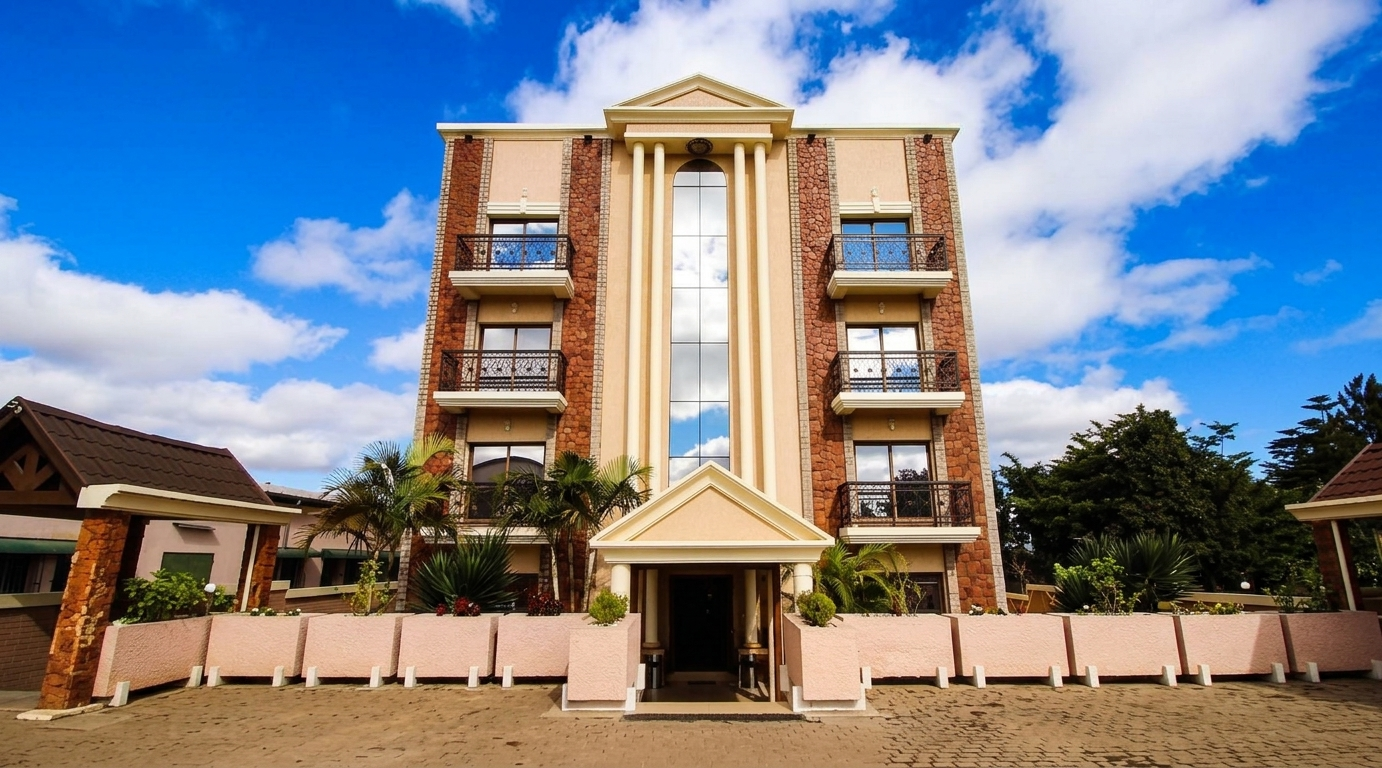
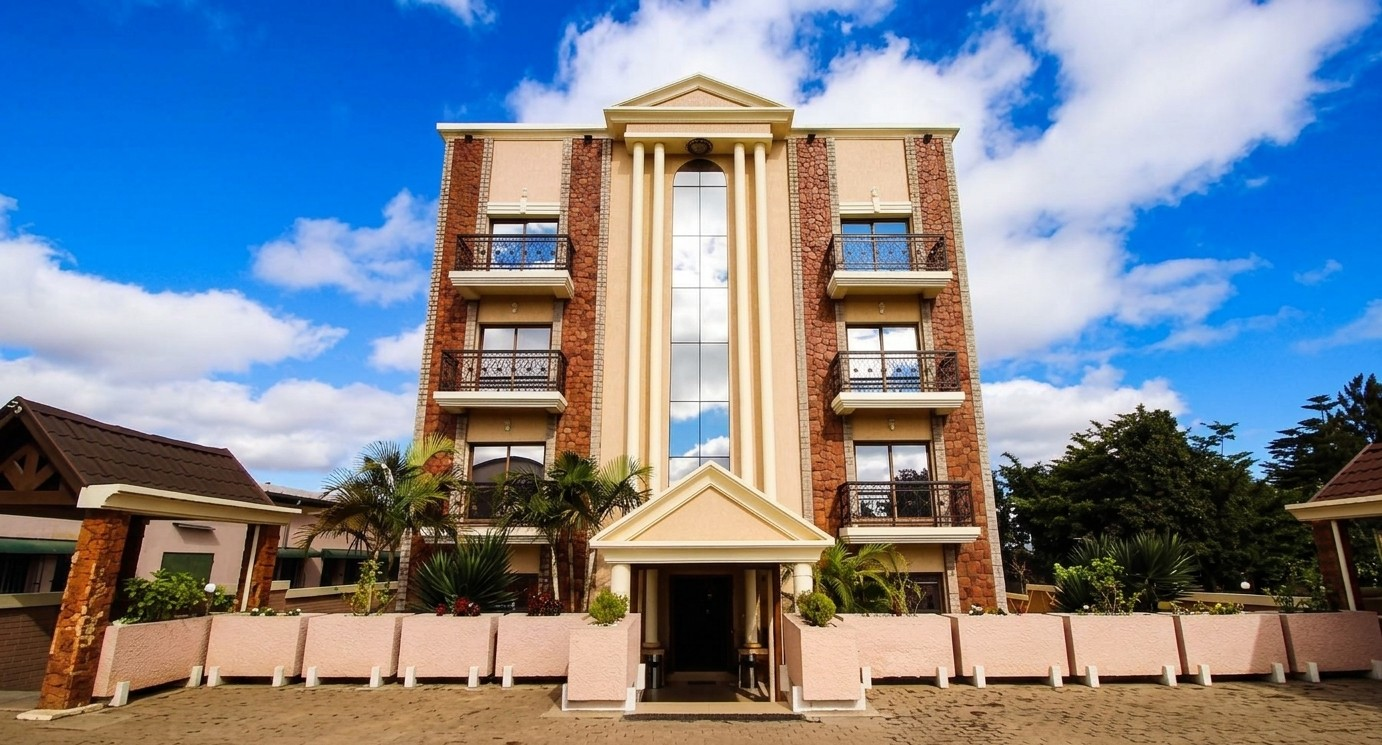
Amélioration du bloc BookinBar et le bouton CTA

diff --git a/src/components/BookingBar.tsx b/src/components/BookingBar.tsx
@@ -36,82 +36,104 @@ export default function BookingBar({ floating = true }: BookingBarProps) {
     state.adults > 1 ? 'common.adults' : 'common.adult'
   )}${state.children > 0 ? ` · ${state.children} ${t(state.children > 1 ? 'common.children' : 'common.child')}` : ''}`
 
+  // Classe partagée pour masquer l'icône native du navigateur sur les inputs date,
+  // tout en gardant toute la zone cliquable (ouvre le picker au clic n'importe où).
+  const dateInputClass =
+    'relative text-sm font-medium text-charcoal w-full focus:outline-none bg-transparent ' +
+    '[&::-webkit-calendar-picker-indicator]:absolute [&::-webkit-calendar-picker-indicator]:inset-0 ' +
+    '[&::-webkit-calendar-picker-indicator]:w-full [&::-webkit-calendar-picker-indicator]:h-full ' +
+    '[&::-webkit-calendar-picker-indicator]:opacity-0 [&::-webkit-calendar-picker-indicator]:cursor-pointer'
+
   return (
-    <div
-      className={classNames(
-        'bg-white flex flex-col md:flex-row items-stretch w-full',
-        floating ? 'rounded-md shadow-soft-lg md:divide-x divide-gray-200' : 'rounded-md shadow-card md:divide-x divide-gray-200 border border-gray-100'
-      )}
-    >
-      {/* Check-in */}
-      <label className="flex-1 flex items-center gap-3 px-6 py-4 cursor-pointer">
-        <Calendar size={18} className="text-gold-500 shrink-0" />
-        <div className="flex-1 min-w-0">
-          <div className="text-[10px] uppercase tracking-widest2 text-gray-400 font-medium">{t('common.checkIn')}</div>
-          <input
-            type="date"
-            value={toInputDate(state.checkIn)}
-            min={toInputDate(new Date())}
-            onChange={(e) => setCheckIn(e.target.value)}
-            className="text-sm font-medium text-charcoal w-full focus:outline-none bg-transparent"
-          />
-        </div>
-      </label>
+    <div className="w-full flex justify-center">
+      <div
+        className={classNames(
+          // Bordures pointues (rounded-none) et largeur réduite
+          'bg-white flex flex-col md:flex-row items-stretch w-full max-w-5xl overflow-hidden rounded-none',
+          floating
+            ? 'shadow-[0_0_0_1px_rgba(0,0,0,0.03),0_25px_60px_-8px_rgba(0,0,0,0.45),0_-6px_25px_-10px_rgba(0,0,0,0.2)]'
+            : 'shadow-card'
+        )}
+      >
+        {/* Groupe Arrivée / Départ / Chambres & voyageurs, avec traits fins entre chaque bloc */}
+        <div className="flex-1 flex flex-col md:flex-row divide-y md:divide-y-0 md:divide-x divide-gray-200">
+          {/* Check-in */}
+          <label className="group flex-1 flex items-center gap-3 px-6 py-5 cursor-pointer transition-colors duration-200 hover:bg-cream/60 focus-within:bg-cream/70">
+            <Calendar size={18} className="text-gold-500 shrink-0 transition-transform duration-200 group-hover:scale-110" />
+            <div className="flex-1 min-w-0">
+              <div className="text-[10px] uppercase tracking-widest2 text-gray-400 font-medium mb-0.5">{t('common.checkIn')}</div>
+              <input
+                type="date"
+                value={toInputDate(state.checkIn)}
+                min={toInputDate(new Date())}
+                onChange={(e) => setCheckIn(e.target.value)}
+                className={dateInputClass}
+              />
+            </div>
+            <ChevronDown size={16} className="text-gray-400 shrink-0" />
+          </label>
 
-      {/* Check-out */}
-      <label className="flex-1 flex items-center gap-3 px-6 py-4 cursor-pointer">
-        <Calendar size={18} className="text-gold-500 shrink-0" />
-        <div className="flex-1 min-w-0">
-          <div className="text-[10px] uppercase tracking-widest2 text-gray-400 font-medium">{t('common.checkOut')}</div>
-          <input
-            type="date"
-            value={toInputDate(state.checkOut)}
-            min={toInputDate(state.checkIn || new Date())}
-            onChange={(e) => setCheckOut(e.target.value)}
-            className="text-sm font-medium text-charcoal w-full focus:outline-none bg-transparent"
-          />
-        </div>
-      </label>
+          {/* Check-out */}
+          <label className="group flex-1 flex items-center gap-3 px-6 py-5 cursor-pointer transition-colors duration-200 hover:bg-cream/60 focus-within:bg-cream/70">
+            <Calendar size={18} className="text-gold-500 shrink-0 transition-transform duration-200 group-hover:scale-110" />
+            <div className="flex-1 min-w-0">
+              <div className="text-[10px] uppercase tracking-widest2 text-gray-400 font-medium mb-0.5">{t('common.checkOut')}</div>
+              <input
+                type="date"
+                value={toInputDate(state.checkOut)}
+                min={toInputDate(state.checkIn || new Date())}
+                onChange={(e) => setCheckOut(e.target.value)}
+                className={dateInputClass}
+              />
+            </div>
+            <ChevronDown size={16} className="text-gray-400 shrink-0" />
+          </label>
 
-      {/* Rooms & guests */}
-      <div ref={guestsRef} className="flex-1 relative">
-        <button
-          type="button"
-          onClick={() => setGuestsOpen((v) => !v)}
-          className="w-full flex items-center gap-3 px-6 py-4 text-left"
-        >
-          <Users size={18} className="text-gold-500 shrink-0" />
-          <div className="flex-1 min-w-0">
-            <div className="text-[10px] uppercase tracking-widest2 text-gray-400 font-medium">{t('common.roomsGuests')}</div>
-            <div className="text-sm font-medium text-charcoal truncate">{guestsLabel}</div>
-          </div>
-          <ChevronDown size={16} className={classNames('text-gray-400 transition-transform', guestsOpen && 'rotate-180')} />
-        </button>
-
-        {guestsOpen && (
-          <div className="absolute top-full left-0 mt-2 bg-white shadow-soft-lg rounded-md p-5 w-72 z-50 border border-gray-100">
-            <Stepper label={t('common.rooms')} value={state.rooms} onChange={setRooms} min={1} />
-            <Stepper label={t('common.adults')} value={state.adults} onChange={setAdults} min={1} />
-            <Stepper label={t('common.children')} value={state.children} onChange={setChildren} min={0} />
+          {/* Rooms & guests */}
+          <div ref={guestsRef} className="flex-1 relative">
             <button
               type="button"
-              onClick={() => setGuestsOpen(false)}
-              className="mt-2 w-full text-center text-xs uppercase tracking-widest2 text-gold-600 font-medium py-2 hover:bg-cream rounded"
+              onClick={() => setGuestsOpen((v) => !v)}
+              className="group w-full flex items-center gap-3 px-6 py-5 text-left transition-colors duration-200 hover:bg-cream/60"
             >
-              {t('common.apply')}
+              <Users size={18} className="text-gold-500 shrink-0 transition-transform duration-200 group-hover:scale-110" />
+              <div className="flex-1 min-w-0">
+                <div className="text-[10px] uppercase tracking-widest2 text-gray-400 font-medium mb-0.5">{t('common.roomsGuests')}</div>
+                <div className="text-sm font-medium text-charcoal truncate">{guestsLabel}</div>
+              </div>
+              <ChevronDown size={16} className={classNames('text-gray-400 shrink-0 transition-transform duration-200', guestsOpen && 'rotate-180')} />
             </button>
-          </div>
-        )}
-      </div>
 
-      {/* CTA */}
-      <button
-        type="button"
-        onClick={submitSearch}
-        className="bg-gold-500 hover:bg-gold-600 text-white uppercase tracking-widest2 text-xs md:text-sm font-medium px-8 py-5 transition-colors whitespace-nowrap"
-      >
-        {t('common.checkAvailability')}
-      </button>
+            {guestsOpen && (
+              <div className="absolute top-full left-0 mt-3 bg-white shadow-[0_20px_60px_-15px_rgba(0,0,0,0.3)] rounded-none p-5 w-72 z-50 animate-fade-in">
+                <Stepper label={t('common.rooms')} value={state.rooms} onChange={setRooms} min={1} />
+                <Stepper label={t('common.adults')} value={state.adults} onChange={setAdults} min={1} />
+                <Stepper label={t('common.children')} value={state.children} onChange={setChildren} min={0} />
+                <button
+                  type="button"
+                  onClick={() => setGuestsOpen(false)}
+                  className="mt-2 w-full text-center text-xs uppercase tracking-widest2 text-gold-600 font-medium py-2.5 hover:bg-cream transition-colors duration-200"
+                >
+                  {t('common.apply')}
+                </button>
+              </div>
+            )}
+          </div>
+        </div>
+
+        {/*
+          CTA — bouton doré avec bordures pointues
+        */}
+        <div className="flex items-center justify-center p-3 md:p-4">
+          <button
+            type="button"
+            onClick={submitSearch}
+            className="w-full md:w-auto bg-gold-500 hover:bg-gold-600 active:bg-gold-700 text-white uppercase tracking-widest2 text-[10px] md:text-[11px] font-semibold px-2 md:px-3 py-3.5 rounded-none transition-all duration-200 whitespace-nowrap hover:shadow-lg"
+          >
+            {t('common.checkAvailability')}
+          </button>
+        </div>
+      </div>
     </div>
   )
 }
@@ -135,7 +157,7 @@ function Stepper({
           type="button"
           onClick={() => onChange(Math.max(min, value - 1))}
           disabled={value <= min}
-          className="w-7 h-7 rounded-full border border-gray-300 flex items-center justify-center text-gray-500 hover:border-gold-500 hover:text-gold-500 disabled:opacity-30 transition-colors"
+          className="w-7 h-7 rounded-none border border-gray-300 flex items-center justify-center text-gray-500 hover:border-gold-500 hover:text-gold-500 disabled:opacity-30 transition-colors duration-200"
         >
           −
         </button>
@@ -143,7 +165,7 @@ function Stepper({
         <button
           type="button"
           onClick={() => onChange(value + 1)}
-          className="w-7 h-7 rounded-full border border-gray-300 flex items-center justify-center text-gray-500 hover:border-gold-500 hover:text-gold-500 transition-colors"
+          className="w-7 h-7 rounded-none border border-gray-300 flex items-center justify-center text-gray-500 hover:border-gold-500 hover:text-gold-500 transition-colors duration-200"
         >
           +
         </button>

diff --git a/src/components/Hero.tsx b/src/components/Hero.tsx
@@ -19,9 +19,11 @@ export default function Hero() {
   const { t } = useTranslation()
 
   return (
-    <section className="relative h-screen min-h-[640px] w-full overflow-hidden">
-      {/* Background image */}
-      <div className="absolute inset-0">
+    // Hauteur du bloc hero réduite (h-[75vh] au lieu de h-[85vh]) pour remonter
+    // la ligne de séparation avec le bloc du bas, sans toucher à son contenu.
+    <section className="relative h-[75vh] min-h-[560px] w-full">
+      {/* Background image — seul ce conteneur est clipé */}
+      <div className="absolute inset-0 overflow-hidden">
         <img
           src="/images/hero/hero-building.jpg"
           alt="Royal Palace Antsirabe — façade de l'hôtel au crépuscule"
@@ -53,17 +55,30 @@ export default function Hero() {
         </motion.div>
       </div>
 
-      {/* Floating booking bar */}
-      <motion.div
-        initial={{ opacity: 0, y: 40 }}
-        animate={{ opacity: 1, y: 0 }}
-        transition={{ duration: 0.9, delay: 0.4, ease: 'easeOut' }}
-        className="absolute bottom-0 left-0 right-0 translate-y-1/2 z-20 px-4 md:px-0"
-      >
-        <div className="container-luxe">
-          <BookingBar floating />
-        </div>
-      </motion.div>
+      {/*
+        Floating booking bar — au premier plan, devant la ligne de séparation.
+
+        STRUCTURE EN 2 COUCHES (important, ne pas fusionner) :
+        - Couche EXTERNE (ce <div> classique) : gère TOUTE la position/le décalage
+          via className. N'est jamais touché par Framer Motion.
+        - Couche INTERNE (le motion.div) : gère UNIQUEMENT l'animation d'entrée
+          (fondu + léger glissement). Son propre transform ne peut donc plus
+          jamais entrer en conflit avec le positionnement.
+
+        Pour ajuster la descente du bloc : change uniquement la valeur "1.5cm"
+        ci-dessous (ex: "5cm", "3rem", "40px"...). Rien d'autre à toucher.
+      */}
+      <div className="absolute bottom-0 left-0 right-0 translate-y-[calc(50%-0.2cm)] z-30 px-4 md:px-0">
+        <motion.div
+          initial={{ opacity: 0, y: 40 }}
+          animate={{ opacity: 1, y: 0 }}
+          transition={{ duration: 0.9, delay: 0.4, ease: 'easeOut' }}
+        >
+          <div className="container-luxe">
+            <BookingBar floating />
+          </div>
+        </motion.div>
+      </div>
     </section>
   )
 }
